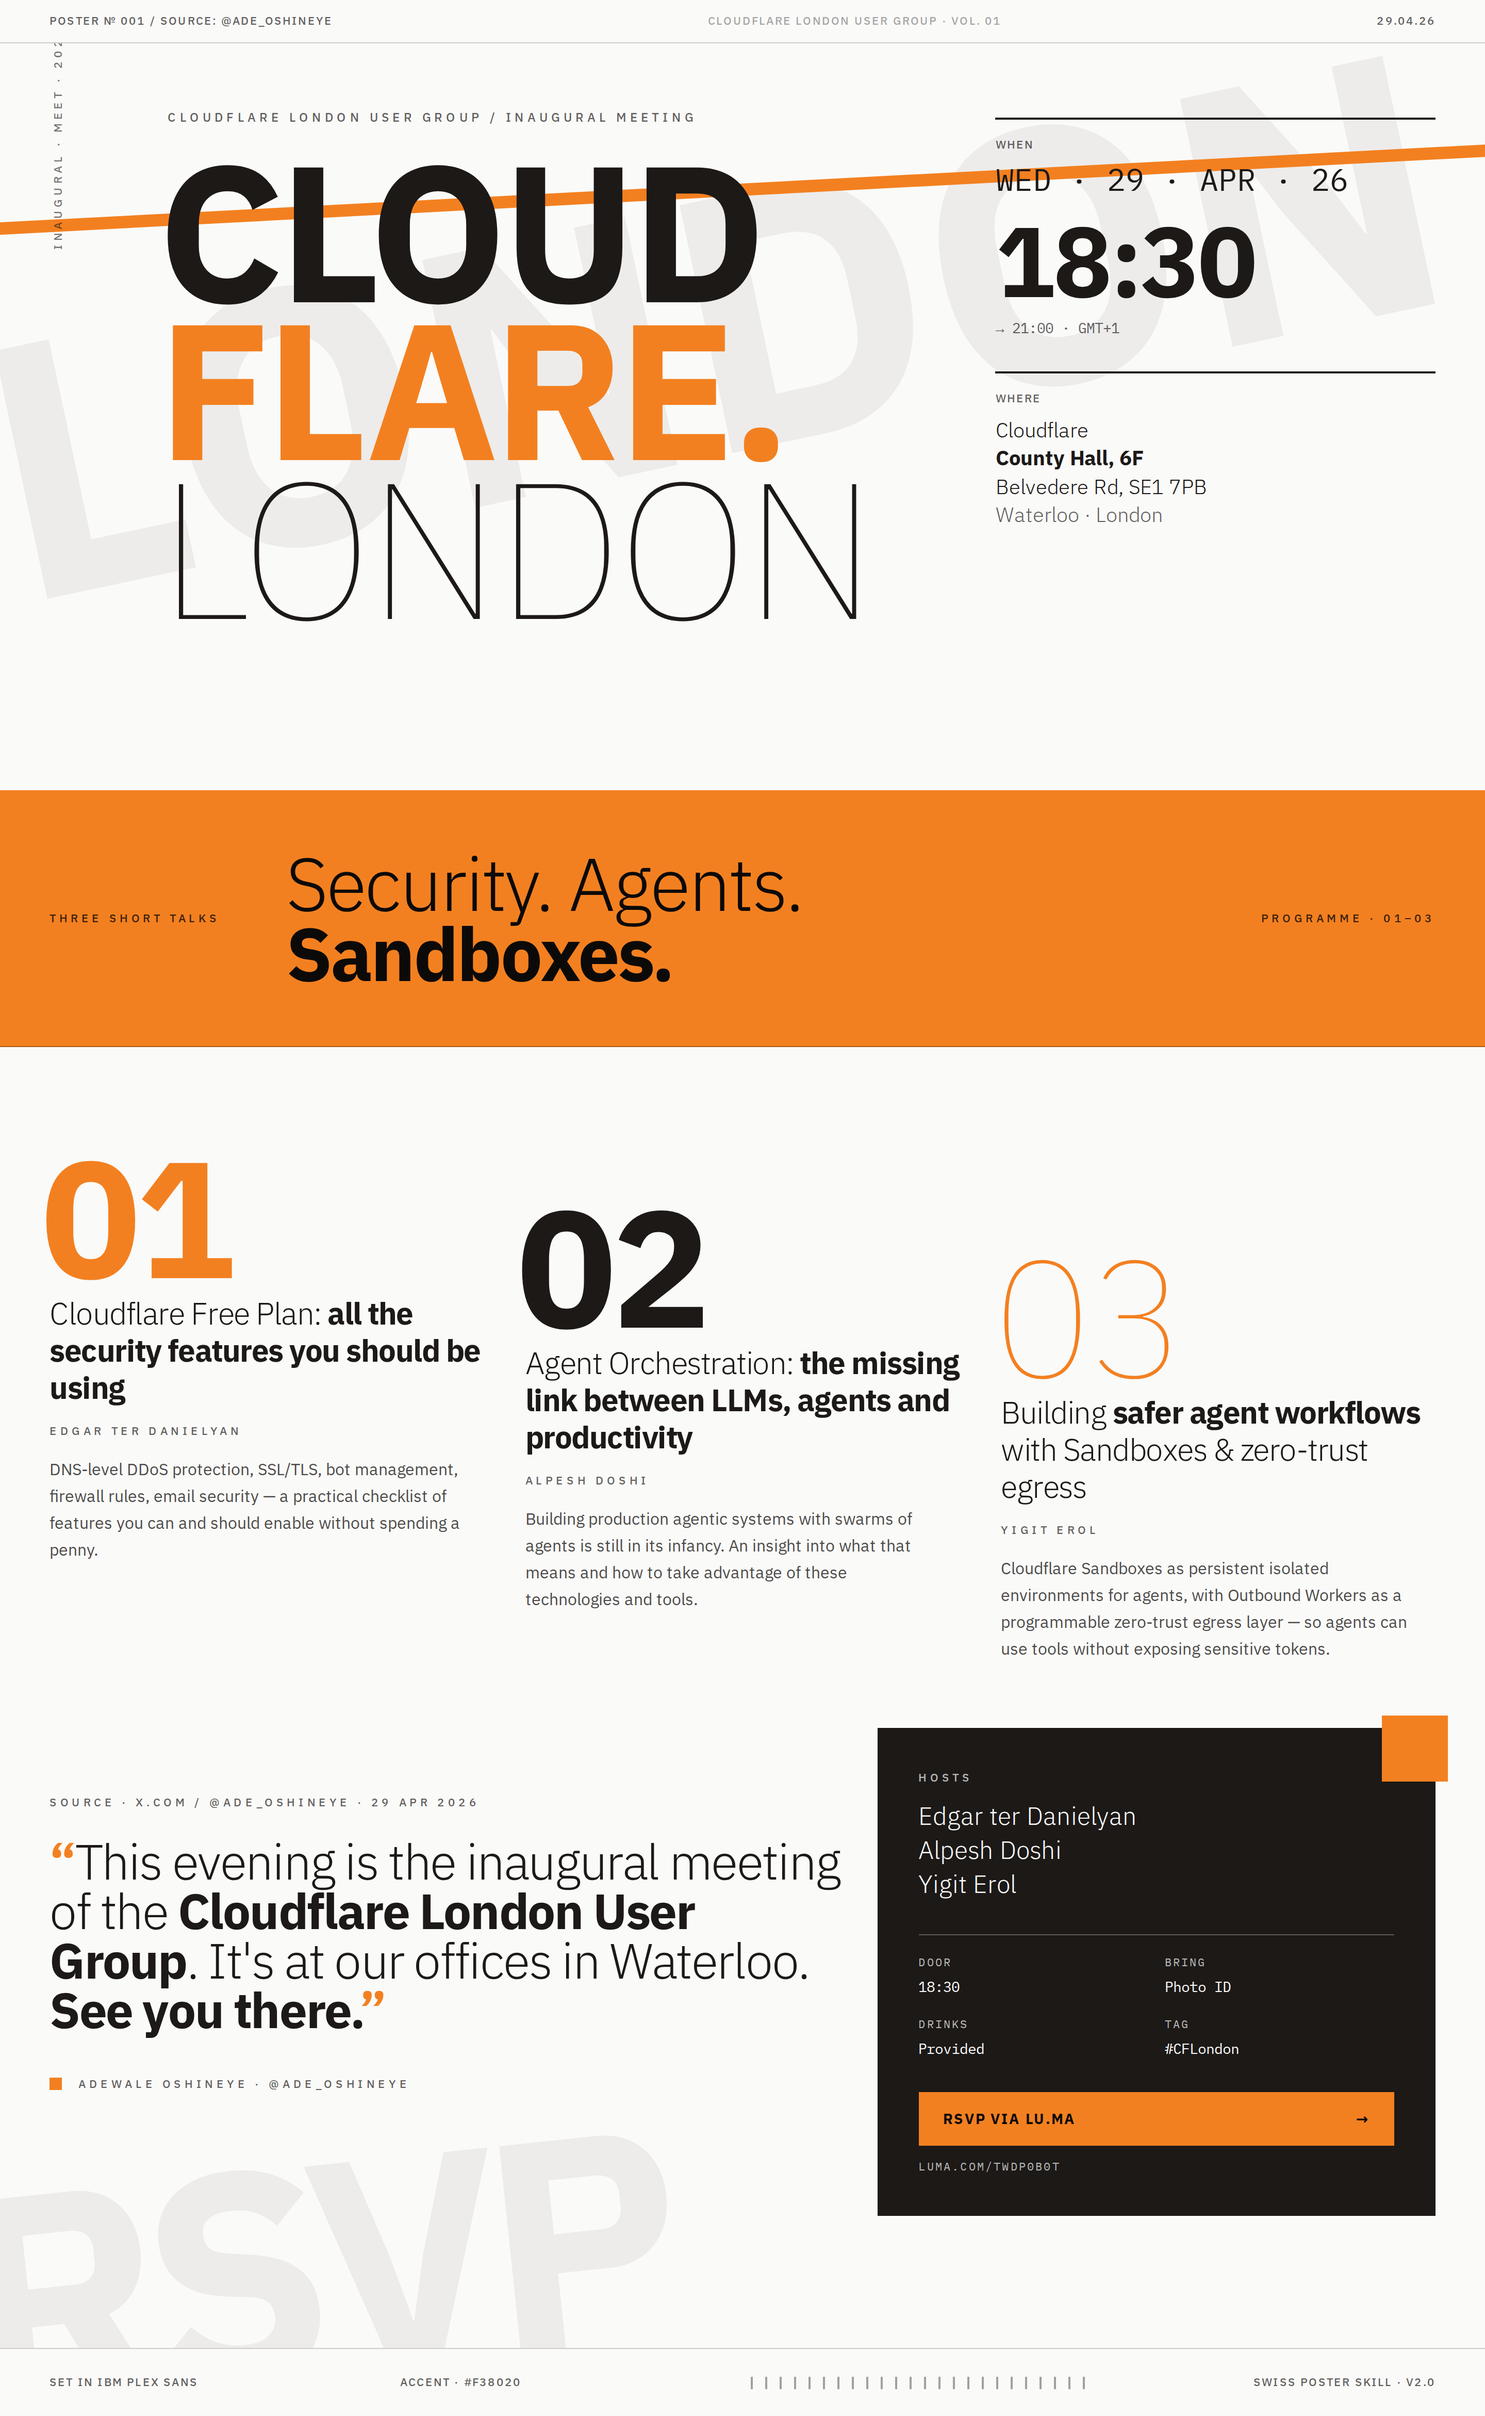
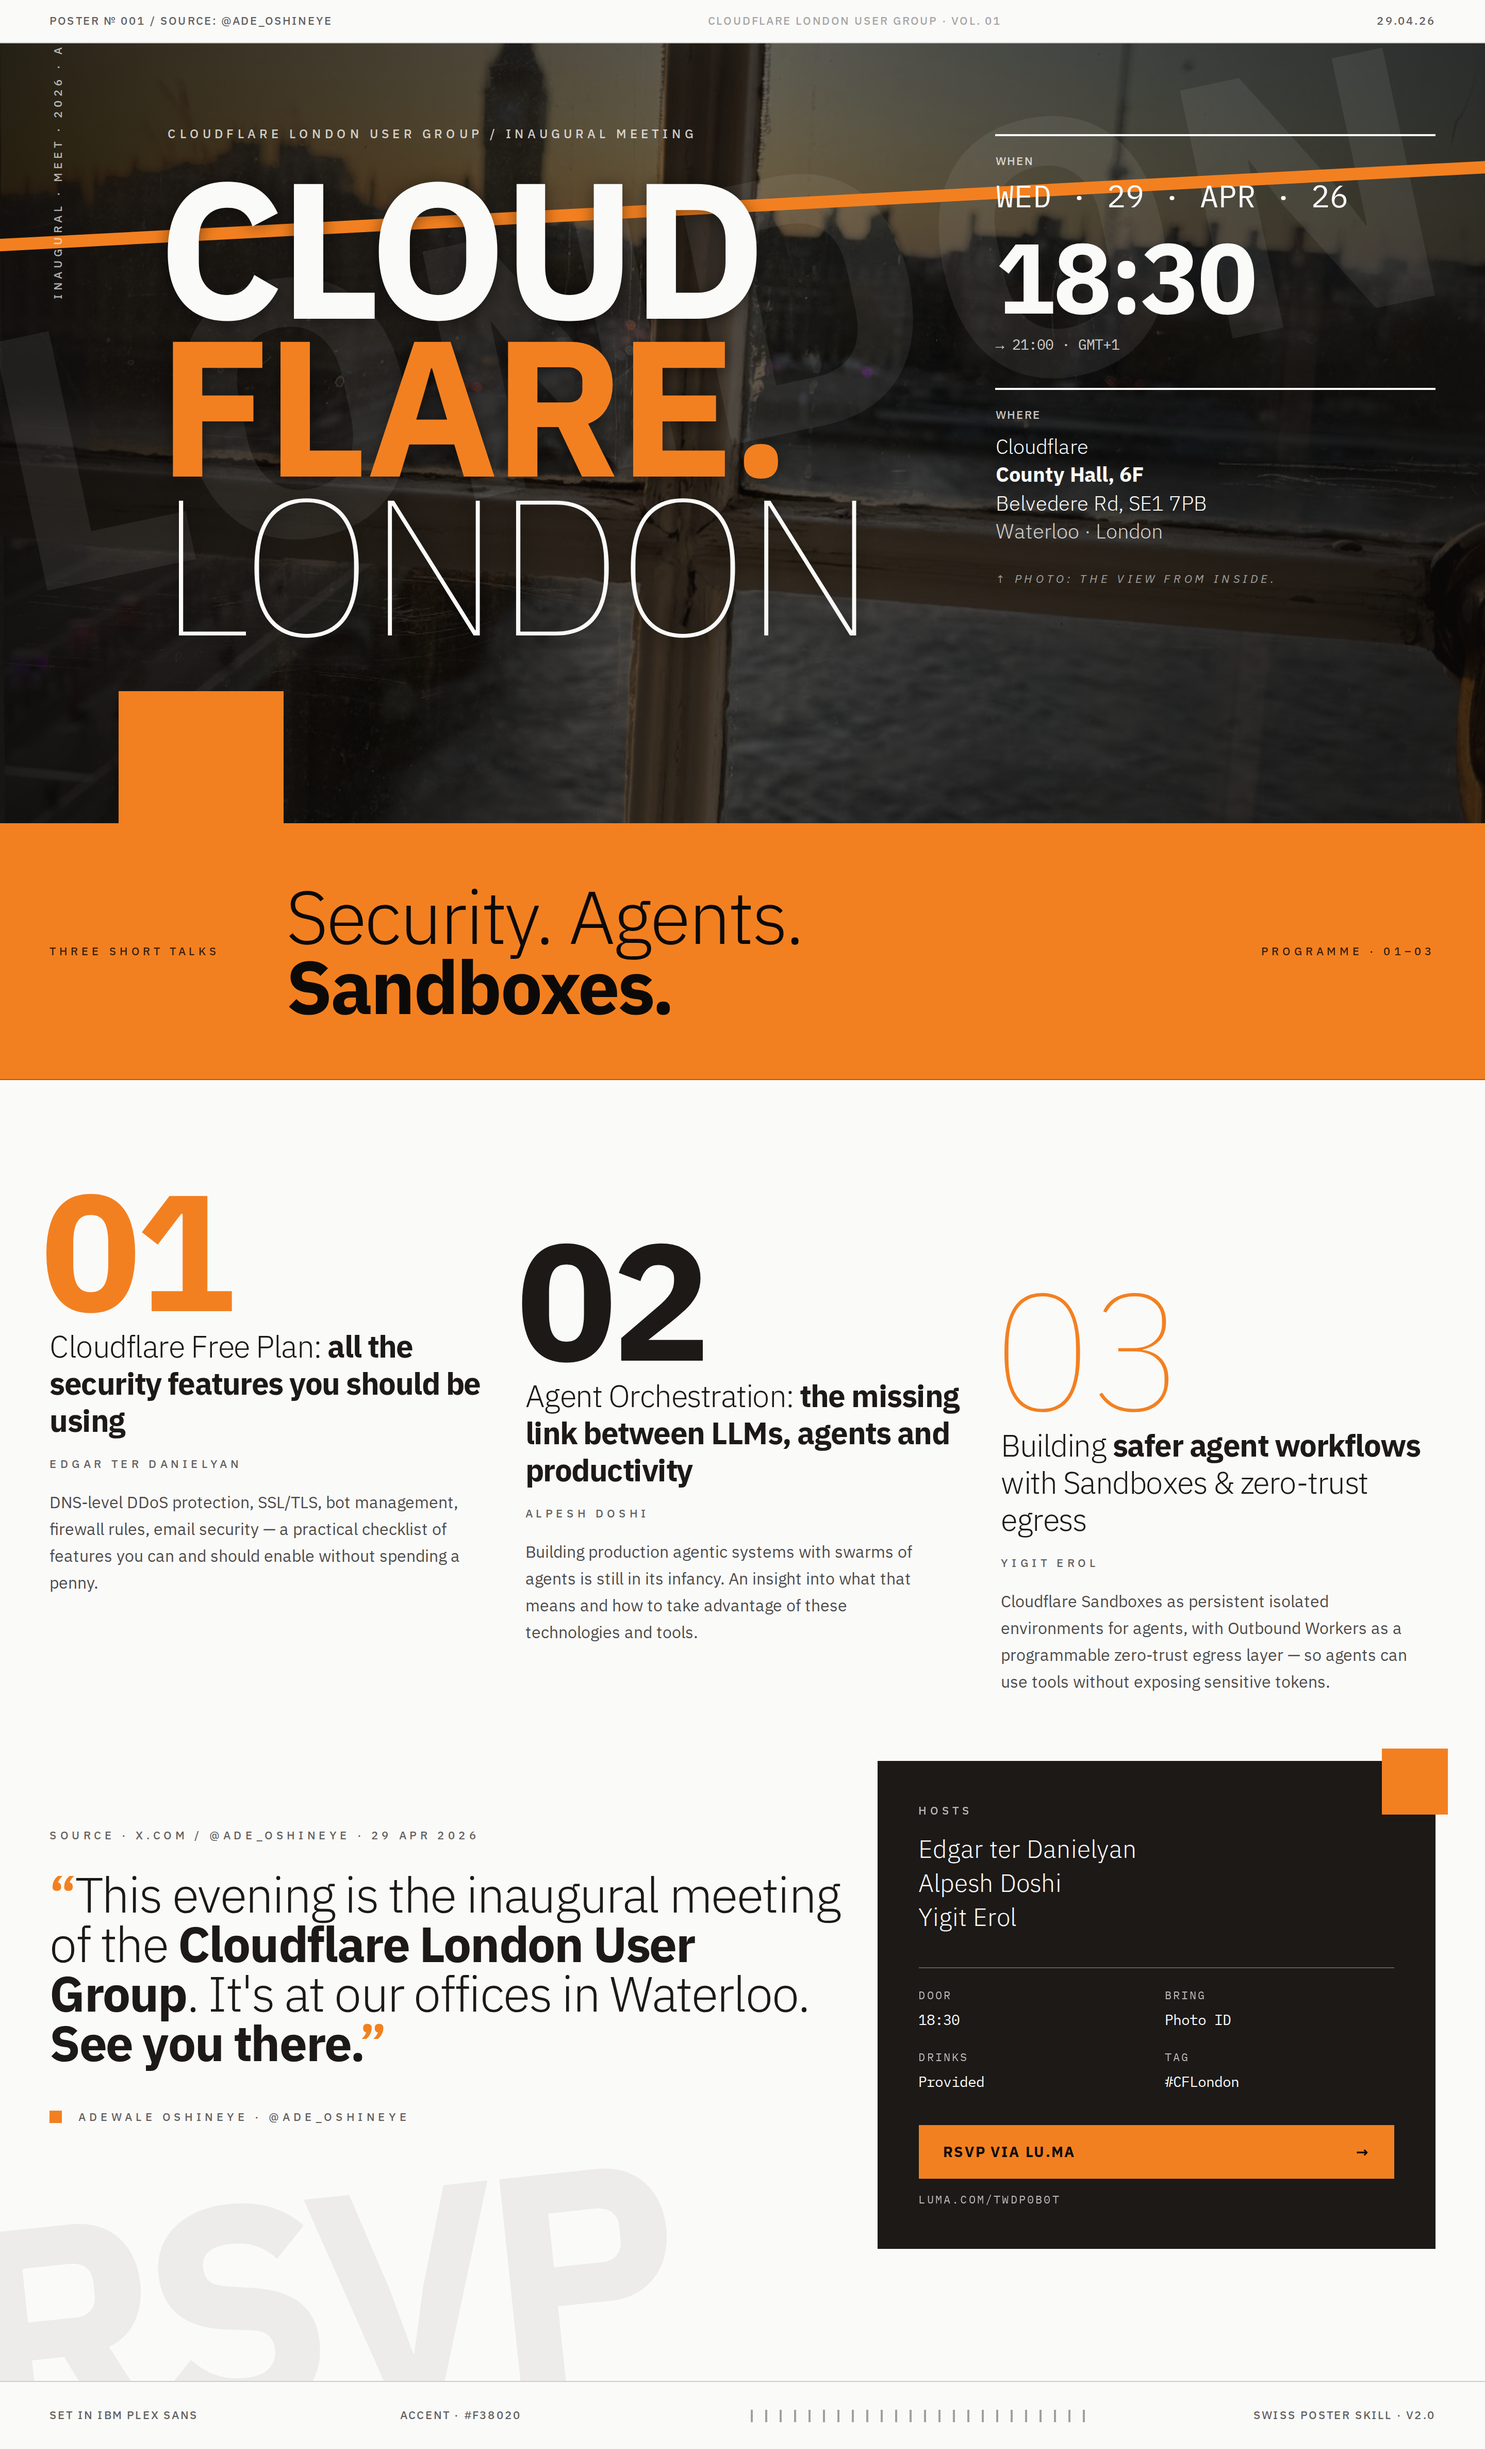
Use the tweet's attached photo as the poster hero
The Twitter URL contains a single tweet (confirmed via syndication
API and oembed: conversation_count is 3 external replies, no author
self-thread). Pulled the attached image — sunset over Westminster
shot from inside County Hall — and turned it into the hero with
mega type overlapping it, a cropped orange block bleeding the
bottom-left, and a diagonal accent bar across the top.

diff --git a/posters/cloudflare-london-user-group.html b/posters/cloudflare-london-user-group.html
@@ -49,61 +49,76 @@
     </div>
   </header>
 
-  <!-- HERO -->
-  <section class="relative overflow-hidden">
-    <!-- Ghost background type -->
-    <div aria-hidden="true" class="absolute -top-10 -left-10 -rotate-12 select-none pointer-events-none text-[12rem] sm:text-[16rem] md:text-[22rem] font-bold leading-[0.85] text-stone-900/[0.06] dark:text-stone-50/[0.06] whitespace-nowrap">
+  <!-- HERO with photo -->
+  <section class="relative overflow-hidden bg-stone-950 text-stone-50">
+    <!-- Photo: shot from the venue (County Hall, looking at Westminster) -->
+    <img src="tweet-photo.jpg"
+         alt="Sunset view of Big Ben and Westminster from a window at Cloudflare's County Hall office, posted by @ade_oshineye"
+         class="absolute inset-0 w-full h-full object-cover object-center opacity-70" />
+
+    <!-- Dark gradient for legibility -->
+    <div aria-hidden="true" class="absolute inset-0 bg-gradient-to-r from-stone-950/85 via-stone-950/40 to-stone-950/70"></div>
+
+    <!-- Ghost background type, layered over photo -->
+    <div aria-hidden="true" class="absolute -top-12 -left-10 -rotate-12 select-none pointer-events-none text-[12rem] sm:text-[16rem] md:text-[22rem] font-bold leading-[0.85] text-stone-50/[0.07] whitespace-nowrap z-[1]">
       LONDON LONDON
     </div>
 
-    <!-- Diagonal accent bar -->
-    <div aria-hidden="true" class="absolute top-24 -right-10 w-[120%] h-3 bg-[#F38020] -rotate-3 origin-right z-0"></div>
+    <!-- Diagonal accent bar bleeding off-edge -->
+    <div aria-hidden="true" class="absolute top-28 -right-10 w-[120%] h-3 bg-[#F38020] -rotate-3 origin-right z-[2]"></div>
 
-    <div class="relative max-w-[1440px] mx-auto px-6 md:px-12 pt-10 md:pt-16 pb-24 md:pb-40">
-      <div class="grid grid-cols-12 gap-4 md:gap-8 relative">
+    <!-- Cropped accent block (escapes the layout) -->
+    <div aria-hidden="true" class="absolute -bottom-8 left-[8%] w-40 h-40 bg-[#F38020] z-[2]"></div>
+
+    <div class="relative z-10 max-w-[1440px] mx-auto px-6 md:px-12 pt-12 md:pt-20 pb-28 md:pb-44">
+      <div class="grid grid-cols-12 gap-4 md:gap-8">
 
         <!-- Tiny rotated rail label -->
         <div class="hidden md:flex col-span-1 items-start justify-start pt-2">
-          <span class="text-[11px] tracking-[0.3em] uppercase text-stone-900/60 dark:text-stone-50/60 -rotate-90 origin-top-left translate-y-32 font-medium whitespace-nowrap">
-            Inaugural · Meet · 2026
+          <span class="text-[11px] tracking-[0.3em] uppercase text-stone-50/70 -rotate-90 origin-top-left translate-y-40 font-medium whitespace-nowrap">
+            Inaugural · Meet · 2026 · A View from Waterloo
           </span>
         </div>
 
         <!-- Main copy -->
-        <div class="col-span-12 md:col-span-7 relative z-20">
-          <p class="text-xs tracking-[0.3em] uppercase font-medium text-stone-900/70 dark:text-stone-50/70 mb-6">
+        <div class="col-span-12 md:col-span-7 relative">
+          <p class="text-xs tracking-[0.3em] uppercase font-medium text-stone-50/80 mb-6">
             Cloudflare London User Group / Inaugural Meeting
           </p>
-          <h1 class="text-[clamp(3.5rem,13vw,17rem)] font-bold leading-[0.82] tracking-tight -ml-[0.05em]">
+          <h1 class="text-[clamp(3.5rem,13vw,17rem)] font-bold leading-[0.82] tracking-tight -ml-[0.05em] drop-shadow-[0_2px_8px_rgba(0,0,0,0.45)]">
             <span class="block">CLOUD</span>
             <span class="block text-[#F38020]">FLARE.</span>
             <span class="block font-thin">LONDON</span>
           </h1>
         </div>
 
-        <!-- Right rail: date stack -->
-        <div class="col-span-12 md:col-span-4 md:col-start-9 relative z-20 mt-8 md:mt-2">
-          <div class="border-t-2 border-stone-900 dark:border-stone-50 pt-4">
-            <div class="text-[11px] tracking-widest uppercase font-medium text-stone-900/70 dark:text-stone-50/70">When</div>
+        <!-- Right rail: date / where -->
+        <div class="col-span-12 md:col-span-4 md:col-start-9 relative mt-8 md:mt-2">
+          <div class="border-t-2 border-stone-50 pt-4">
+            <div class="text-[11px] tracking-widest uppercase font-medium text-stone-50/80">When</div>
             <div class="mt-2 font-mono text-2xl md:text-3xl leading-none">
               WED · 29 · APR · 26
             </div>
             <div class="mt-3 text-7xl md:text-8xl font-bold leading-[0.85] tracking-tight">
               18:30
             </div>
-            <div class="mt-2 text-stone-900/70 dark:text-stone-50/70 text-sm font-mono">
+            <div class="mt-2 text-stone-50/80 text-sm font-mono">
               → 21:00 · GMT+1
             </div>
           </div>
 
-          <div class="mt-8 border-t-2 border-stone-900 dark:border-stone-50 pt-4">
-            <div class="text-[11px] tracking-widest uppercase font-medium text-stone-900/70 dark:text-stone-50/70">Where</div>
+          <div class="mt-8 border-t-2 border-stone-50 pt-4">
+            <div class="text-[11px] tracking-widest uppercase font-medium text-stone-50/80">Where</div>
             <div class="mt-2 text-xl font-light leading-snug">
               Cloudflare<br/>
               <span class="font-bold">County Hall, 6F</span><br/>
               Belvedere Rd, SE1 7PB<br/>
-              <span class="text-stone-900/70 dark:text-stone-50/70">Waterloo · London</span>
+              <span class="text-stone-50/80">Waterloo · London</span>
             </div>
+          </div>
+
+          <div class="mt-6 text-[11px] tracking-[0.3em] uppercase font-medium text-stone-50/60 italic font-light">
+            ↑ Photo: the view from inside.
           </div>
         </div>
 
